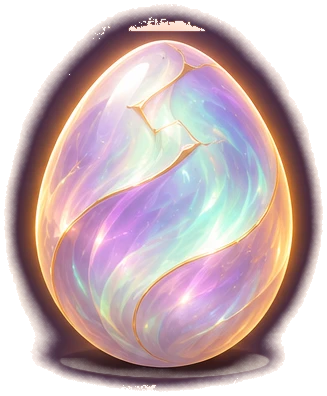
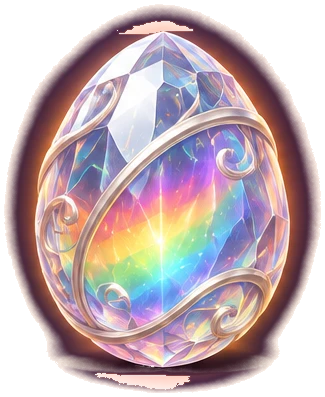
Unicorn gets the prism egg; shop tabs at the bottom
- The rainbow unicorn (id licorne-aurore kept, no data migration) is now named
  "Licorne Arc-en-ciel" and hatches from the prism egg
- Shop: Nourriture / Jouets / Coffres tabs as a bottom menu, like the home screen

diff --git a/app/boutique/page.tsx b/app/boutique/page.tsx
@@ -5,7 +5,7 @@ import { useEnsurePet } from '@/components/pet-ensure';
 import { BackHeader } from '@/components/ui';
 import { buy, ITEMS, type Item } from '@/lib/pet/rules';
 
-const TABS: [Item['kind'], string][] = [['food', '🍎 Nourriture'], ['toy', '⚽ Jouets'], ['chest', '🎁 Coffres']];
+const TABS: [Item['kind'], string, string][] = [['food', '🍎', 'Nourriture'], ['toy', '⚽', 'Jouets'], ['chest', '🎁', 'Coffres']];
 
 export default function BoutiquePage() {
   const { pet, updatePet, coins } = useEnsurePet();
@@ -22,9 +22,6 @@ export default function BoutiquePage() {
       <BackHeader title="Boutique" />
       <div className="petbar"><Coins n={coins} /></div>
       <DebugCoins />
-      <div className="row tabs">
-        {TABS.map(([k, l]) => <button key={k} className={'chip' + (tab === k ? ' on' : '')} onClick={() => setTab(k)}>{l}</button>)}
-      </div>
       <div className="shop">
         {ITEMS.filter(i => i.kind === tab).map(it => (
           <div key={it.id} className="shopi">
@@ -36,7 +33,15 @@ export default function BoutiquePage() {
           </div>
         ))}
       </div>
-      {bought && <p key={bought} className="note pop-note">Acheté ! {tab === 'chest' ? 'Ton coffre t’attend au nid.' : 'C’est dans ton sac.'}</p>}
+      {bought > 0 && <p key={bought} className="note pop-note">Acheté ! {tab === 'chest' ? 'Ton coffre t’attend au nid.' : 'C’est dans ton sac.'}</p>}
+      <div className="spacer" />
+      <div className="nav shop-tabs">
+        {TABS.map(([k, e, l]) => (
+          <button key={k} className={'navb' + (tab === k ? ' on' : '')} onClick={() => setTab(k)}>
+            <span className="ic">{e}</span><span className="lb">{l}</span>
+          </button>
+        ))}
+      </div>
     </section>
   );
 }

diff --git a/app/globals.css b/app/globals.css
@@ -407,3 +407,5 @@ button.bestc{cursor:pointer}
 .stackct{position:absolute;top:6px;right:6px;background:var(--yellow);color:var(--ink);font-weight:700;font-size:14px;border-radius:999px;padding:2px 8px}
 .crea-bed{position:absolute;bottom:0;left:50%;width:85%;transform:translateX(-50%);z-index:-1;animation:pet-drop .4s ease-out both}
 .crea{isolation:isolate}
+.shop-tabs{position:sticky;bottom:8px}
+.navb.on{background:var(--yellow);color:var(--ink)}

diff --git a/lib/pet/species.ts b/lib/pet/species.ts
@@ -31,7 +31,7 @@ export const SPECIES: Species[] = [
     ['loup-de-lune', 'Loup de Lune', 'sautille'],
   ]),
   ...S('legendaire', [
-    ['licorne-aurore', 'Licorne Aurore', 'flotte'], ['phenix-solaire', 'Phénix Solaire', 'voltige'],
+    ['licorne-aurore', 'Licorne Arc-en-ciel', 'flotte'], ['phenix-solaire', 'Phénix Solaire', 'voltige'],
     ['renard-celeste', 'Renard Céleste', 'sautille'],
   ]),
 ];

diff --git a/docs/Bestiaire.md b/docs/Bestiaire.md
@@ -81,7 +81,7 @@ Paliers : **Épique** = super classe (animal en armure ou élémentaire). **Lég
 
 | Choix | Nom | Idée en une phrase | Couleurs dominantes | Bébé | Petit | Grand | Super | Mouvement | Œuf spécial (description + lien avec la créature) |
 | - | - | - | - | - | - | - | - | - | - |
-| x | Licorne Aurore | Licorne en armure nacrée aux couleurs d'aurore | Vert menthe, violet, rose | Pouliche ronde, mini-corne | Crinière en dégradé qui ondule | Corne spiralée qui brille, plastron nacré | Crinière d'aurore immense, corne de cristal, armure nacrée | flotte | Œuf nacré où ondulent des voiles vert-violet-rose. Une petite corne spiralée perce le sommet. |
+| x | Licorne Arc-en-ciel (id licorne-aurore) | Licorne en armure nacrée aux couleurs d'aurore | Vert menthe, violet, rose | Pouliche ronde, mini-corne | Crinière en dégradé qui ondule | Corne spiralée qui brille, plastron nacré | Crinière d'aurore immense, corne de cristal, armure nacrée | flotte | Œuf nacré où ondulent des voiles vert-violet-rose. Une petite corne spiralée perce le sommet. |
 | | Dragon d'Ombre | Dragon de la nuit, majestueux et mystérieux | Violet profond, noir velours, jaune étoile | Boule noire aux yeux étoilés, ailes minuscules | Cornes courtes, ailes de velours | Ailes ouvertes, croissants de lune sur le dos, crête d'écailles | Grand dragon, ailes constellées, cornes recourbées, yeux d'or | voltige | Œuf noir velouté à motifs de croissants violets, enveloppé d'un voile d'ombre qui ondule. Deux yeux étoilés clignent dans la coque. |
 | | Dragon de Jade | Dragon-serpent impérial | Vert jade, or, crème | Petit serpent jade enroulé, moustaches | Petites cornes d'or, crinière crème | Corps long, touffes de nuage crème dans la crinière | Dragon immense, perle d'or entre les griffes, crinière flamboyante | flotte | Œuf de jade sculpté de spirales d'écailles, perle d'or incrustée au sommet. Des volutes crème s'enroulent autour. |
 | x | Phénix Solaire | Oiseau de feu qui renaît du soleil | Or, orange, rouge | Poussin doré, petite flamme sur la tête | Plumes de flamme | Longue queue de feu | Ailes de soleil déployées, couronne de flammes, queue en éventail | voltige | Œuf doré entouré d'un anneau de flammes douces. Des plumes de feu y sont gravées et des braises s'en échappent. |
